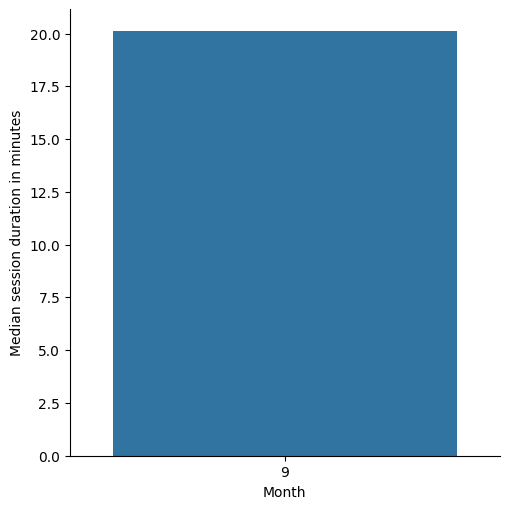
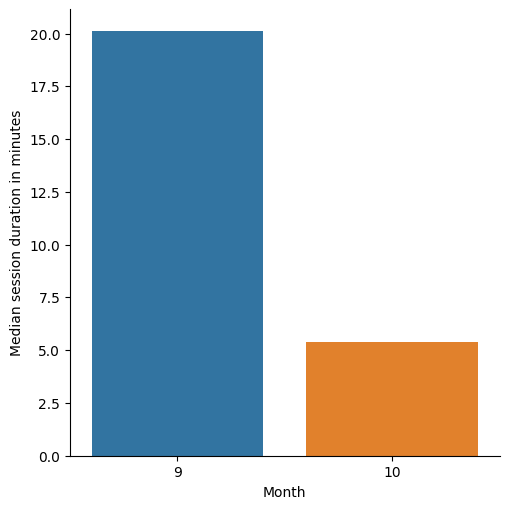
"Stats generated 2021-10-02"

diff --git a/all/2021/10/index.html b/all/2021/10/index.html
@@ -1,0 +1,54 @@
+<!DOCTYPE html>
+<html>
+  <head>
+    <meta charset="utf-8"/>
+    <title>October 2021</title>
+    <link rel="stylesheet" href="../../../styles.css"/>
+  </head>
+  <body>
+    <div id="container">
+      <nav>
+        <ul>
+          
+            <li><a href="../">2021</a></li>
+            <li class="separator"></li>
+          
+          
+            
+              <li><span>Weekdays</span></li>
+            
+          
+            
+              <li><a href="weekdays/4/">Friday</a></li>
+            
+          
+            
+              <li><span>Day of Month</span></li>
+            
+          
+            
+              <li><a href="days/1/">1</a></li>
+            
+          
+        </ul>
+      </nav>
+      <main>
+        <h1>October 2021</h1>
+        
+          <h2>Number of sessions per day</h2>
+          <img src="day-sessions.png" alt="Number of sessions per day"/>
+        
+          <h2>Session duration per day</h2>
+          <img src="day-durations.png" alt="Session duration per day"/>
+        
+          <h2>Number of sessions per weekday</h2>
+          <img src="weekday-sessions.png" alt="Number of sessions per weekday"/>
+        
+          <h2>Session duration per weekday</h2>
+          <img src="weekday-durations.png" alt="Session duration per weekday"/>
+        
+        
+      </main>
+    </div>
+  </body>
+</html>

diff --git a/all/2021/10/weekdays/4/index.html b/all/2021/10/weekdays/4/index.html
@@ -1,0 +1,29 @@
+<!DOCTYPE html>
+<html>
+  <head>
+    <meta charset="utf-8"/>
+    <title>Fridays October 2021</title>
+    <link rel="stylesheet" href="../../../../../styles.css"/>
+  </head>
+  <body>
+    <div id="container">
+      <nav>
+        <ul>
+          
+            <li><a href="../../">October 2021</a></li>
+            <li class="separator"></li>
+          
+          
+        </ul>
+      </nav>
+      <main>
+        <h1>Fridays October 2021</h1>
+        
+          <h2>Number of sessions per hour</h2>
+          <img src="sessions.png" alt="Number of sessions per hour"/>
+        
+        
+      </main>
+    </div>
+  </body>
+</html>

diff --git a/all/2021/10/days/1/index.html b/all/2021/10/days/1/index.html
@@ -1,0 +1,29 @@
+<!DOCTYPE html>
+<html>
+  <head>
+    <meta charset="utf-8"/>
+    <title>1 October 2021</title>
+    <link rel="stylesheet" href="../../../../../styles.css"/>
+  </head>
+  <body>
+    <div id="container">
+      <nav>
+        <ul>
+          
+            <li><a href="../../">October 2021</a></li>
+            <li class="separator"></li>
+          
+          
+        </ul>
+      </nav>
+      <main>
+        <h1>1 October 2021</h1>
+        
+          <h2>Number of sessions per hour</h2>
+          <img src="sessions.png" alt="Number of sessions per hour"/>
+        
+        
+      </main>
+    </div>
+  </body>
+</html>

diff --git a/all/2021/index.html b/all/2021/index.html
@@ -18,6 +18,10 @@
               <li><a href="9/">September</a></li>
             
           
+            
+              <li><a href="10/">October</a></li>
+            
+          
         </ul>
       </nav>
       <main>
@@ -139,9 +143,9 @@
                   
                     <td>10.0</td>
                   
-                    <td>0.0</td>
+                    <td>14.0</td>
                   
-                    <td>nan</td>
+                    <td>5.37116505</td>
                   
                 </tr>
               
